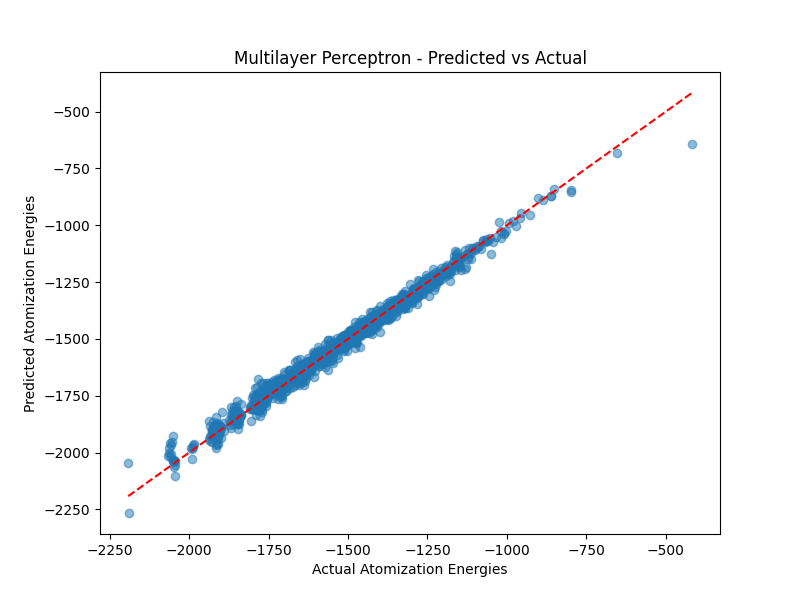
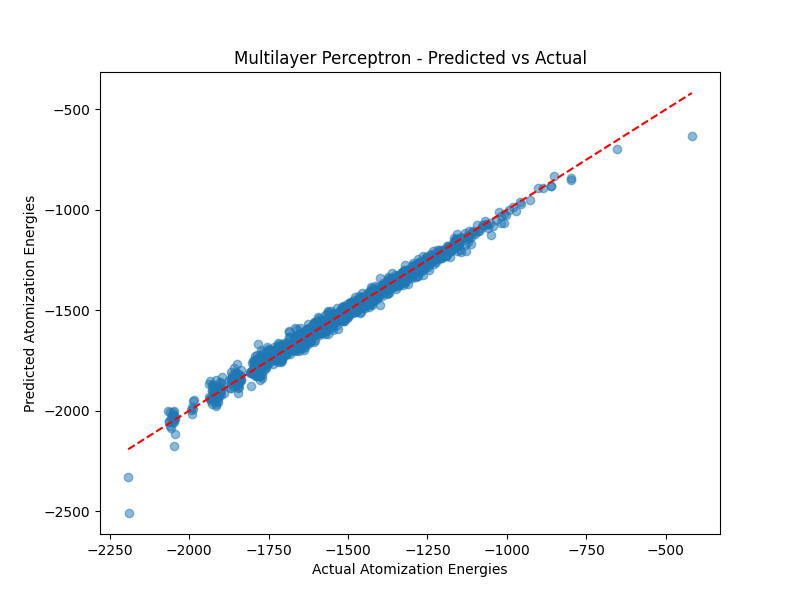
add evaluation

diff --git a/Task_2/train.py b/Task_2/train.py
@@ -17,9 +17,7 @@ split = 0
 train_indices = list(range(0, split)) + list(range(split + 1, 5)) # train indices 75%, test 25%
 P = dataset['P'][train_indices].flatten() # convert 2D array to 1D array
 X = dataset['X'][P] # input: select only those rows (molecules) that correspond to the training data
-# print(X.shape)
 T = dataset['T'][0, P] # T contains the corresponding output targets (atomization energies) for the training data()
-# print([0, P])
 
 # Flatten X
 X_flat = X.reshape(X.shape[0], -1) # convert 3D array to 2D array

diff --git a/README.md b/README.md
@@ -147,6 +147,8 @@ In the [train.py](/Task_2/train.py) file the four models is evaluated using mean
 
 ![MAE](/img/MAE.png)
 
+![MSE](/img/MSE.PNG)
+
 ### Model Comparison Based on Mean Absolute Error
 
 | Model                    | Training MAE (kcal/mol) | Test MAE (kcal/mol) |
@@ -154,7 +156,9 @@ In the [train.py](/Task_2/train.py) file the four models is evaluated using mean
 | Linear Regression        | 19.46   | 144.07   |
 | Support Vector Regression        | 72.99   | 73.34   |
 | Gaussian Process        | 0.00   | 1537.59   |
-| Multilayer Perceptron        | 8.00   | 18.18   |
+| Multilayer Perceptron        | 8.90   | 18.71   |
+
+![Model_comparison_mae](/Task_2/plots/model_comparison_mae.png)
 
 ### Model Comparison Based on Root Mean Squared Error
 
@@ -163,7 +167,9 @@ In the [train.py](/Task_2/train.py) file the four models is evaluated using mean
 | Linear Regression        | 25.47   | 3505.74   |
 | Support Vector Regression        | 122.92   | 124.01   |
 | Gaussian Process        | 0.00   | 1554.03   |
-| Multilayer Perceptron        | 12.17   | 24.88   |
+| Multilayer Perceptron        | 14.48   | 26.38   |
+
+![Model_comparison_rmse](/Task_2/plots/model_comparison_rmse.png)
 
 ## Step 6: Visualization and analysis
 
@@ -172,19 +178,45 @@ For each model, the predicted atomization energies is plotted against the actual
 - Scatter Plot: Each point represents a molecule. The x-axis shows the actual atomization energies, and the y-axis shows the predicted energies.
 - Red Line: The red dashed line represents the ideal case where predicted values perfectly match actual values.
 
+### Linear regression
+
+- Training MAE: 19.46 kcal/mol
+- Test MAE: 144.07 kcal/mol
+
+The Linear Regression model shows a significant increase in error from training to test data. This indicates overfitting, where the model performs well on the training data but poorly on unseen test data. The model may not generalize well due to a lack of complexity to capture the underlying patterns in the data.
+
 ![Linear_Regression_predicted_vs_actual](/Task_2/plots/Linear_Regression_predicted_vs_actual.png)
+
+### Gaussian Process
+
+- Training MAE: 0.00 kcal/mol
+- Test MAE: 1537.59 kcal/mol
+
+The Gaussian Process model has a training MAE of 0.00, which indicates severe overfitting. A training error of 0.00 means that the model has memorized the training data perfectly. The extremely high test MAE shows that the model performs very poorly on unseen data which means the model is overfitting.
 
 ![Gaussian_Process_predicted_vs_actual](/Task_2/plots/Gaussian_Process_predicted_vs_actual.png)
 
+### Multilayer perceptron
+
+- Training MAE: 8.90 kcal/mol
+- Test MAE: 18.71 kcal/mol
+
 ![Multilayer_Perceptron_predicted_vs_actual](/Task_2/plots/Multilayer_Perceptron_predicted_vs_actual.png)
+
+The Multilayer Perceptron (MLP) model has a relatively low training and test MAE, and the difference between the two is modest. This indicates good generalization and that the model is likely capturing the underlying patterns in the data effectively. The MLP seems to be the best-performing model in this comparison.
+
+### Support Vector Regression
+
+- Training MAE: 72.99 kcal/mol
+- Test MAE: 73.34 kcal/mol
 
 ![Support_Vector_Regression_predicted_vs_actual](/Task_2/plots/Support_Vector_Regression_predicted_vs_actual.png)
 
-![Model_comparison_mae](/Task_2/plots/model_comparison_mae.png)
-
-![Model_comparison_rmse](/Task_2/plots/model_comparison_rmse.png)
+The SVR model has very similar errors on both training and test data. This suggests that the model is not overfitting and generalizes well. The relatively high MAE indicates that the model might not be capturing all the underlying patterns, but it is consistent.
 
 ## Advantages and Disadvantages of the author's work
+
+The author's work using neural network to train the model. These are some advantages and disadvantages of the author's work:
 
 ### Advantages
 

diff --git a/Task_2/plots/model_comparison_rmse.md b/Task_2/plots/model_comparison_rmse.md
@@ -5,4 +5,4 @@
 | Linear Regression        | 25.47   | 3505.74   |
 | Support Vector Regression        | 122.92   | 124.01   |
 | Gaussian Process        | 0.00   | 1554.03   |
-| Multilayer Perceptron        | 12.17   | 24.88   |
+| Multilayer Perceptron        | 14.48   | 26.38   |

diff --git a/Task_2/plots/model_comparison_mae.md b/Task_2/plots/model_comparison_mae.md
@@ -5,4 +5,4 @@
 | Linear Regression        | 19.46   | 144.07   |
 | Support Vector Regression        | 72.99   | 73.34   |
 | Gaussian Process        | 0.00   | 1537.59   |
-| Multilayer Perceptron        | 8.00   | 18.18   |
+| Multilayer Perceptron        | 8.90   | 18.71   |
